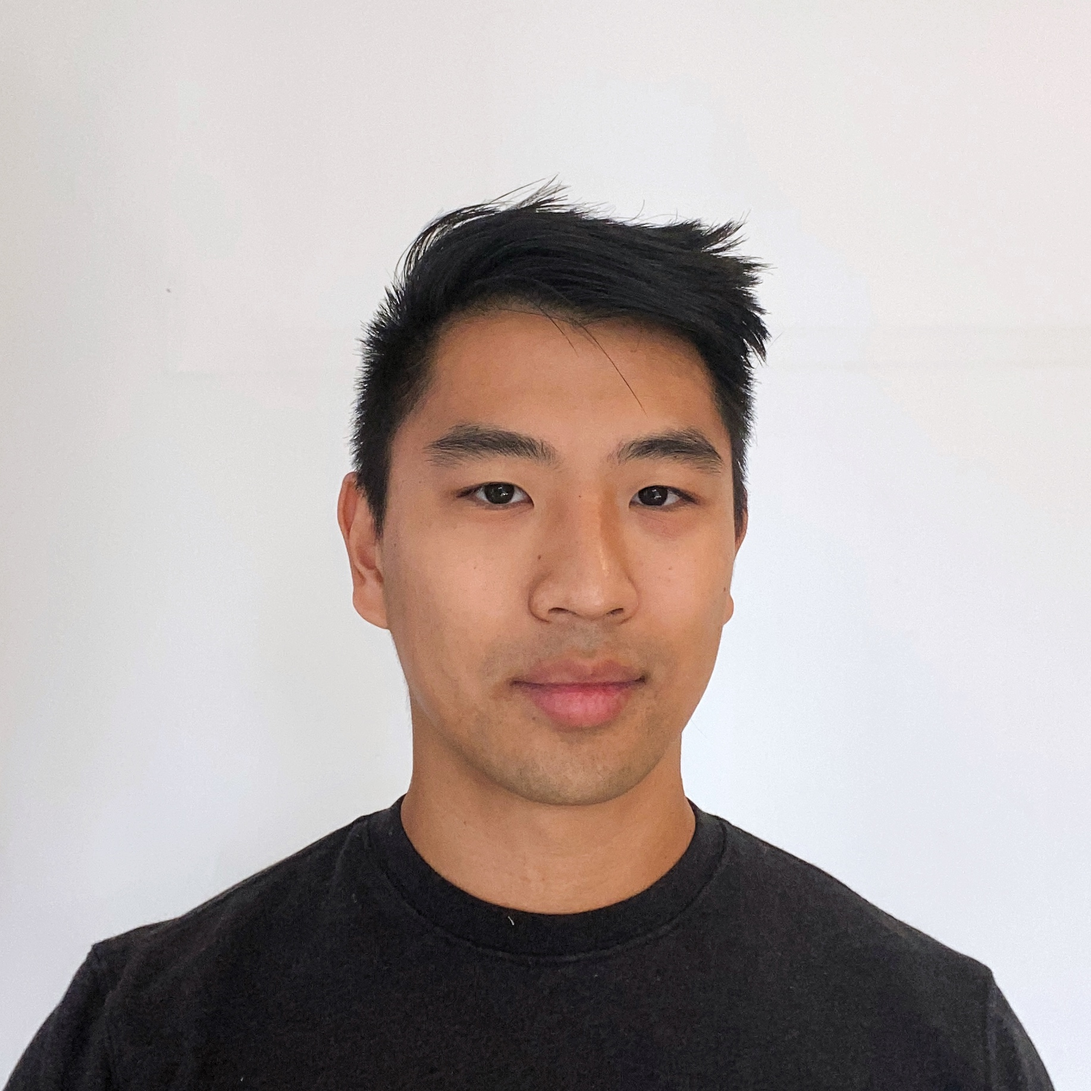
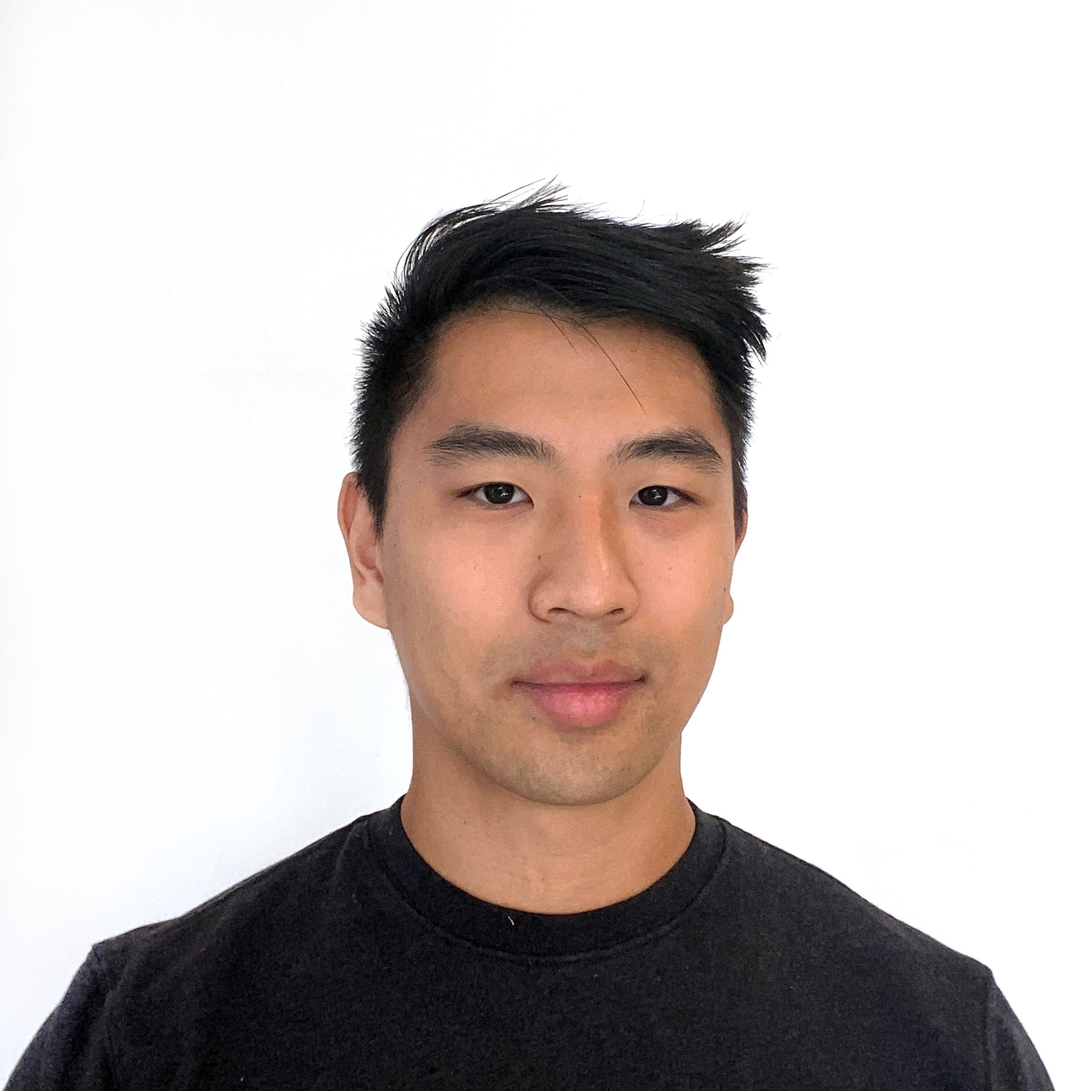
chore: clean up image files

diff --git a/pages/index.tsx b/pages/index.tsx
@@ -1,6 +1,6 @@
 import Image from 'next/image';
 
-import profile2 from 'public/profile2.jpg';
+import profile from 'public/profile.jpg';
 import { PageLayout } from 'components/layouts/PageLayout';
 import { AboutMeContent } from 'components/contents/AboutMeContent';
 
@@ -15,7 +15,7 @@ export default function Home() {
             className="relative h-3/6 w-3/6 md:h-2/6 md:w-2/6 shadow-sm rounded-full">
             <Image
               unoptimized
-              src={profile2}
+              src={profile}
               alt="Bust shot of Alan, looking sharp"
               priority
               className="rounded-full h-full w-full"
